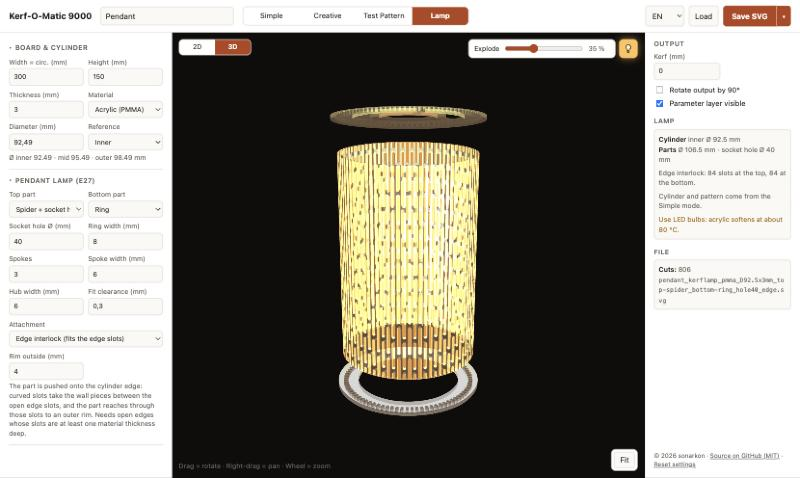
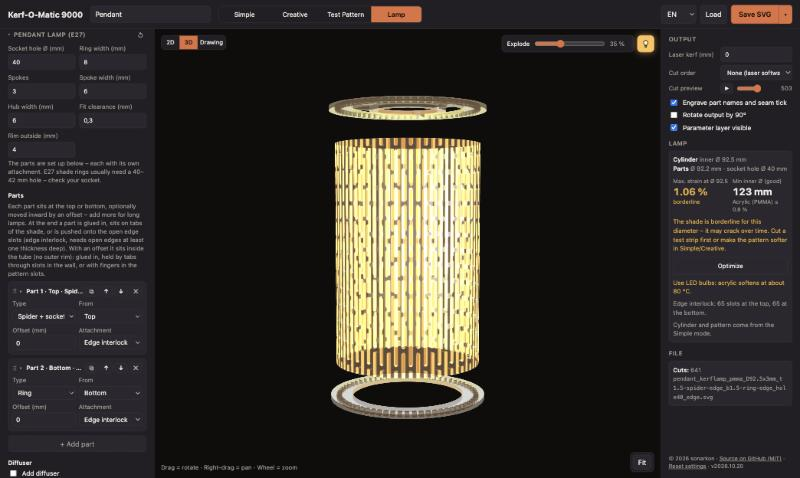
QR code in the SVG parameter layer; README screenshots in dark mode
- Saved SVGs carry a QR code below the parameters that opens the design
  in the web app
- README: new screenshot of the drawing view, all app screenshots
  retaken in dark mode

diff --git a/index.html b/index.html
@@ -2537,11 +2537,13 @@ const outerSize = doc => { const H = doc.h + 2 * (doc.padY || 0); return doc.rot
 
 // Export document: separate Inkscape-compatible layers for cuts, border,
 // engraving and parameters. The parameter block sits below the work area.
-function buildSVG(p, doc) {
+function buildSVG(p, doc, url) {
   const [W, H] = outerSize(doc);
   const lines = paramLines(p, doc);
   const fs = 3.5, lh = fs * 1.4, pad = 5;
-  const totalH = H + pad + lines.length * lh + 2;
+  // below the parameters: a QR code that opens this design in the web app
+  const qr = url && qrPath(url), qs = 25, qy = H + pad + lines.length * lh + 4;
+  const totalH = qr ? qy + qs + fs + 2 : H + pad + lines.length * lh + 2;
 
   const tr = rotTransform(doc), paramVisible = p.paramVisible;
   const out = [];
@@ -2594,6 +2596,12 @@ function buildSVG(p, doc) {
   }
   out.push(`  <g id="parameter" inkscape:groupmode="layer" inkscape:label="${t('layer.params')}" fill="#0000ff" stroke="none" font-family="Arial, Helvetica, sans-serif" font-size="${fs}"${paramVisible ? '' : ' style="display:none"'}>`);
   lines.forEach((txt, i) => out.push(`    <text x="0" y="${f(H + pad + fs + i * lh)}">${esc(txt)}</text>`));
+  if (qr) {
+    const m = qs / (qr.n + 2);
+    out.push(`    <rect x="0" y="${f(qy)}" width="${qs}" height="${qs}" fill="#ffffff"/>`);
+    out.push(`    <path transform="translate(${f(m)},${f(qy + m)}) scale(${f(m)})" d="${qr.d}"/>`);
+    out.push(`    <text x="0" y="${f(qy + qs + fs)}">${esc(t('dr.qr'))}</text>`);
+  }
   if (doc.notes?.length) out.push(`    <g${tr}>${doc.notes.join('')}</g>`);   // part names etc. – information only
   out.push('  </g>');
   out.push('</svg>');
@@ -4546,7 +4554,11 @@ async function exportAs(fmt) {
   flushRender();
   if (!last || !last.doc.count) { alert(t('alert.none')); return; }
   const { p, doc } = last;
-  if (fmt === 'svg') { download(new Blob([buildSVG(p, doc)], { type: 'image/svg+xml' }), fileName(p, doc)); return; }
+  if (fmt === 'svg') {
+    const url = await Promise.all([ensureQr(), shareUrl(p)]).then(([, u]) => u).catch(() => null);   // offline: no QR code
+    download(new Blob([buildSVG(p, doc, url)], { type: 'image/svg+xml' }), fileName(p, doc));
+    return;
+  }
   if (p.mode === 'test') { alert(t('alert.stlTest')); return; }
   if (p.mode === 'mount' && fmt === 'png') { alert(t('alert.pngMount')); return; }
   const btn = $('saveBtn'), base = fileName(p, doc).replace(/\.svg$/, '');

diff --git a/README.md b/README.md
@@ -89,6 +89,8 @@ Parts for a **pendant lamp with an E27 socket** around the shade from Simple or 
 - **Drawing** (next to 2D and 3D) is a dimensioned technical drawing on one sheet: side view (height, outer Ø, the parts' positions, parts inside the shade dashed), top view (outer and inner Ø, socket hole), a pattern detail (slot length and width, vertical gap and bar, enlarged), a 3D view, an exploded view, the cut parts – the board (turned lengthwise when tall) with the parts and diffuser sheets in rows below it, each dimensioned, inside a dimensioned rectangle showing the material this layout needs and a title block (project, material, shade, flat board, pattern, parts list, bend values of the closed shade – strain, material limit, minimum inner Ø –, date and version). Choose the paper format (A4 – A1): every view drawn to scale gets the largest standard scale that fits (1:1, 1:2, 1:2.5, 1:5 …, or enlarged 1.5:1 … for the pattern detail), shown in its title and next to its scale bar; all dimensions carry their unit. A tall, slim lamp is drawn broken in the side view: the ends and every part, each with a little of the shade around it, with a break for each plain stretch between (dimensions in real length); in the exploded view every part, also one deep inside the shade, comes out past its end. A QR code in the title block opens the lamp in the web app: the link carries the settings, compressed (designs with an image modifier get none – images are too large for it). The side and top views are parallel projections of the 3D model with edge lines. *Save PDF* writes a vector PDF in the chosen paper format – print it at 100 % and the scales hold. *Save PNG* exports it at 3200 × 2260 px on white or, with *Transparent*, on a transparent background.
 - **STL/OBJ** export the whole assembly.
 
+![Drawing view: dimensioned sheet with side and top view, pattern detail, 3D and exploded view, cut parts and title block](kerf-o-matic-drawing.jpg)
+
 ## Board and cylinder
 
 - **Cylinder sizing:** enter the inner, mid-plane or outer diameter; the width (circumference) is calculated on the material's mid-plane.
@@ -174,7 +176,7 @@ The **Save** button exports in the format chosen from its menu:
 | **STL** / **OBJ** | A closed 3D solid with real thickness, bent as set with *Bend* (Lamp: the whole assembly). Zero-width cuts get a 0.2 mm kerf; OBJ has welded vertices for Blender. The bend follows the circle within 0.01 mm, so small parts for 3D printing come out round too. |
 | **PNG** | A mask texture (white = material, black = hole), the size in mm in the file name. Simple: a seamless, square 2048 px tile of the pattern. Creative: when the design only changes from top to bottom (bands, gradients and waves at 90°), a stripe of two columns over the full height that repeats around the cylinder (`_stripe_`); otherwise the whole board (`_texture_`, seamless around with *Seamless* on). |
 
-**All parameters are saved with the design** – in the file name, as a *Parameters* layer and as metadata. **Load** restores a design from a saved SVG, OBJ or PNG (STL cannot hold the parameters). An optional **project name** becomes the file-name prefix and the first line of the parameter layer.
+**All parameters are saved with the design** – in the file name, as a *Parameters* layer and as metadata. **Load** restores a design from a saved SVG, OBJ or PNG (STL cannot hold the parameters). An optional **project name** becomes the file-name prefix and the first line of the parameter layer. Below the parameters, the SVG also carries a **QR code** that opens the design in the web app (not for designs with an image modifier).
 
 ### SVG layers
 
